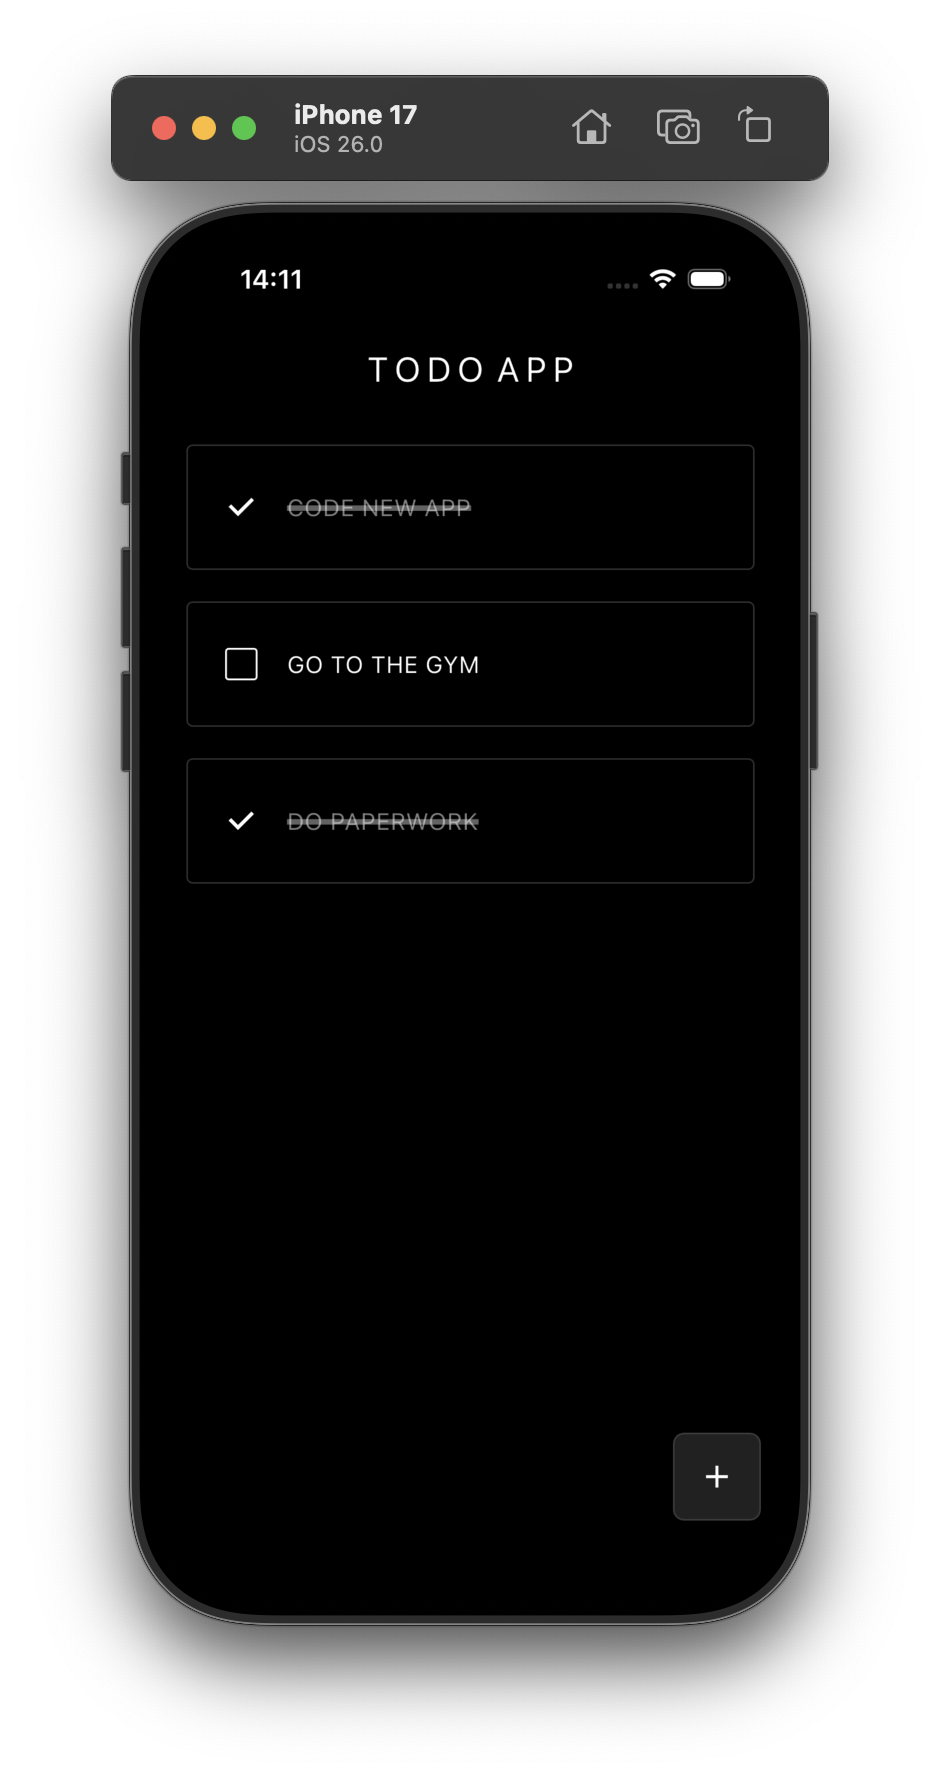
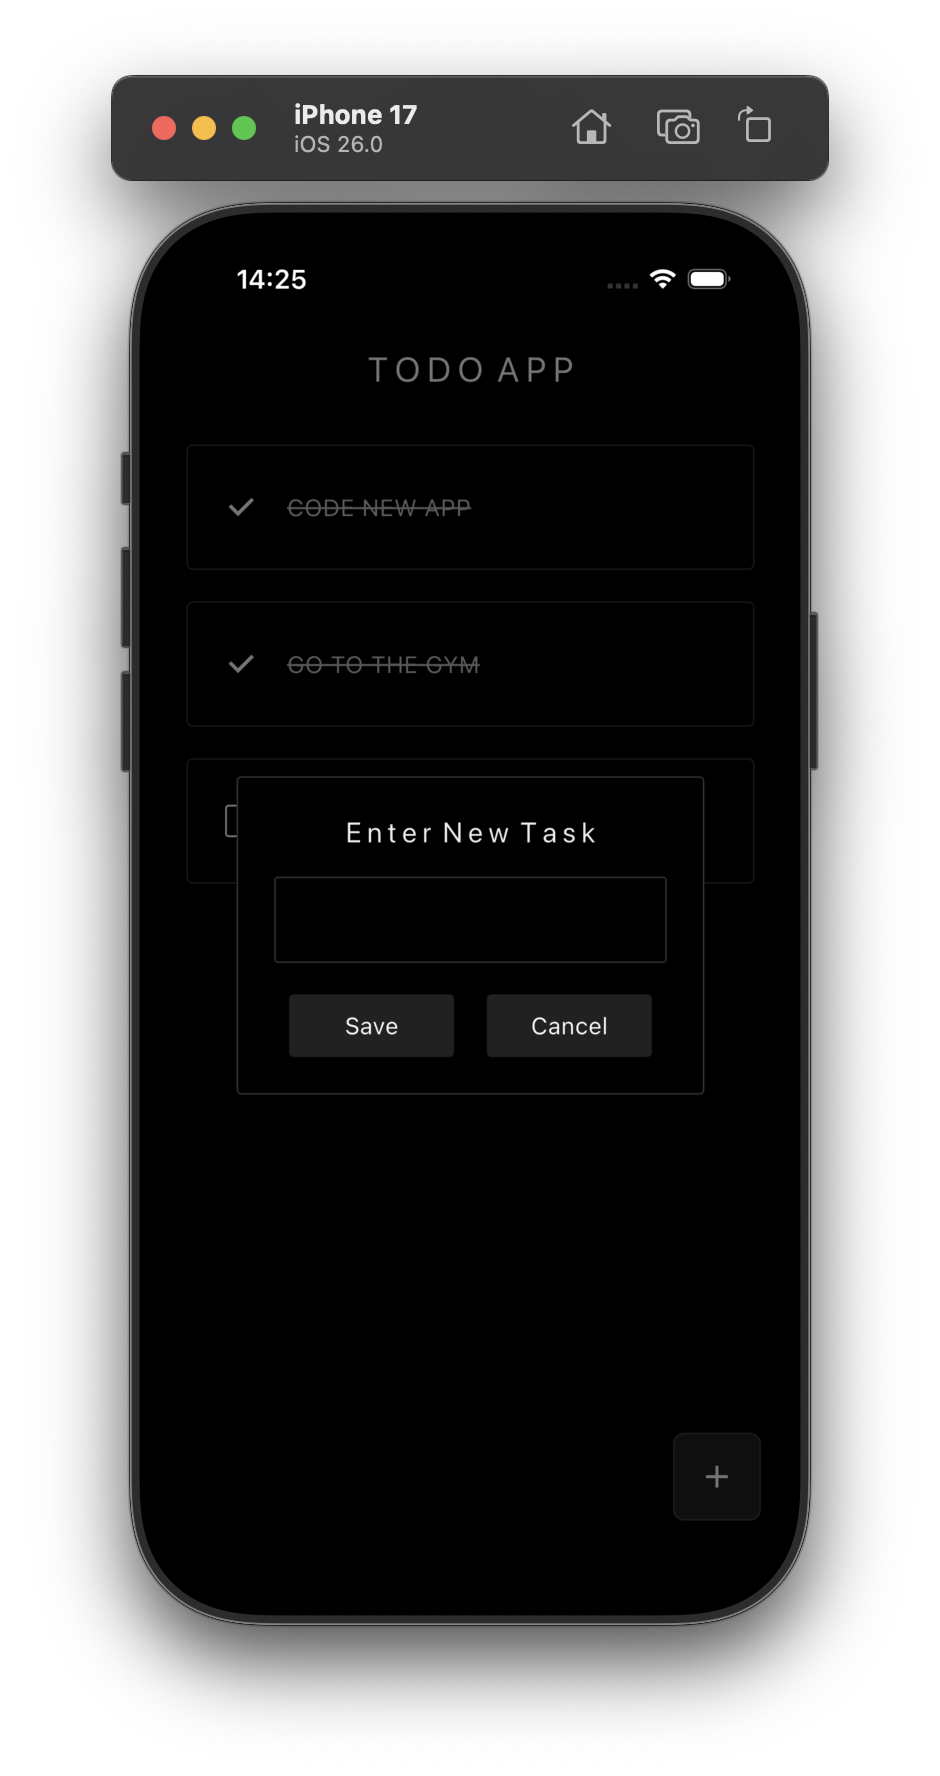
(fix)some colors

diff --git a/lib/model/task.dart b/lib/model/task.dart
@@ -25,7 +25,7 @@ class Task extends StatelessWidget {
           decoration: BoxDecoration(
             border: Border.all(color: Colors.grey[850]!),
             color: Colors.black,
-            borderRadius: BorderRadiusDirectional.circular(4),
+            borderRadius: BorderRadiusDirectional.circular(5),
           ),
           child: Padding(
             padding: EdgeInsetsGeometry.fromLTRB(10, 15, 40, 15),
@@ -36,7 +36,7 @@ class Task extends StatelessWidget {
                   child: Checkbox(
                     side: BorderSide(color: Colors.white, width: 1),
                     shape: RoundedRectangleBorder(
-                      borderRadius: BorderRadiusGeometry.circular(2),
+                      borderRadius: BorderRadiusGeometry.circular(5),
                     ),
                     activeColor: Colors.transparent,
                     checkColor: Colors.white,
@@ -49,13 +49,13 @@ class Task extends StatelessWidget {
                   child: Text(
                     taskName.toUpperCase(),
                     style: TextStyle(
-                      color: Colors.white.withOpacity(isCompleted ? 0.5 : 1.0),
-                      fontSize: 15,
+                      color: Colors.white.withOpacity(isCompleted ? 0.8 : 1.0),
+                      fontSize: 16,
                       decoration: isCompleted
                           ? TextDecoration.lineThrough
                           : TextDecoration.none,
-                      decorationColor: Colors.grey[700],
-                      decorationThickness: 4,
+                      decorationColor: Colors.grey[400],
+                      decorationThickness: 1.5,
                     ),
                   ),
                 ),

diff --git a/lib/utilities/dialog_box.dart b/lib/utilities/dialog_box.dart
@@ -21,7 +21,7 @@ class DialogBox extends StatelessWidget {
           backgroundColor: Colors.black,
           shape: RoundedRectangleBorder(
             side: BorderSide(color: Colors.grey[850]!),
-            borderRadius: BorderRadiusDirectional.circular(3),
+            borderRadius: BorderRadiusDirectional.circular(5),
           ),
           title: Text(
             "E n t e r  N e w  T a s k",
@@ -40,11 +40,11 @@ class DialogBox extends StatelessWidget {
                     decoration: InputDecoration(
                       enabledBorder: OutlineInputBorder(
                         borderSide: BorderSide(color: Colors.grey[850]!),
-                        borderRadius: BorderRadius.circular(2),
+                        borderRadius: BorderRadius.circular(5),
                       ),
                       focusedBorder: OutlineInputBorder(
                         borderSide: BorderSide(color: Colors.grey[850]!),
-                        borderRadius: BorderRadius.circular(2),
+                        borderRadius: BorderRadius.circular(5),
                       ),
                     ),
                   ),
@@ -54,6 +54,7 @@ class DialogBox extends StatelessWidget {
                   mainAxisAlignment: MainAxisAlignment.spaceEvenly,
                   children: [
                     MyButton(btnName: "Save", onPressed: onSave),
+                    const SizedBox(width: 2),
                     MyButton(btnName: "Cancel", onPressed: onCancel),
                   ],
                 ),

diff --git a/lib/utilities/my_button.dart b/lib/utilities/my_button.dart
@@ -8,16 +8,16 @@ class MyButton extends StatelessWidget {
   @override
   Widget build(BuildContext context) {
     return SizedBox(
-      width: 100,
+      width: 105,
       height: 40,
       child: ElevatedButton(
         style: ElevatedButton.styleFrom(
           shape: RoundedRectangleBorder(
-            side: BorderSide(width: 1, color: Colors.white10),
-            borderRadius: BorderRadiusGeometry.circular(3),
+            side: BorderSide(width: 1, color: Colors.grey[900]!),
+            borderRadius: BorderRadiusGeometry.circular(5),
           ),
-          backgroundColor: Colors.grey[300],
-          foregroundColor: Colors.black,
+          backgroundColor: Colors.grey[900],
+          foregroundColor: Colors.white,
         ),
         onPressed: onPressed,
         child: Text(

diff --git a/lib/pages/home_page.dart b/lib/pages/home_page.dart
@@ -73,10 +73,10 @@ class _HomePageState extends State<HomePage> {
       ),
       floatingActionButton: FloatingActionButton(
         shape: RoundedRectangleBorder(
-          side: BorderSide(color: Colors.white12),
-          borderRadius: BorderRadiusGeometry.circular(7),
+          side: BorderSide(color: Colors.grey[850]!),
+          borderRadius: BorderRadiusGeometry.circular(5),
         ),
-        backgroundColor: Colors.grey[900],
+        backgroundColor: Colors.black,
         onPressed: enterNewTask,
         child: Icon(Icons.add, color: Colors.white),
       ),

diff --git a/README.md b/README.md
@@ -1,6 +1,6 @@
 # T O D O  A P P
 
-my first clean application developed in flutter 🐦
+MY FIRST CLEAN APPLICATION DEVELOPED IN FLUTTER 🐦
 
+![example](./images/example1.png)
 ![example](./images/example.png)
-
